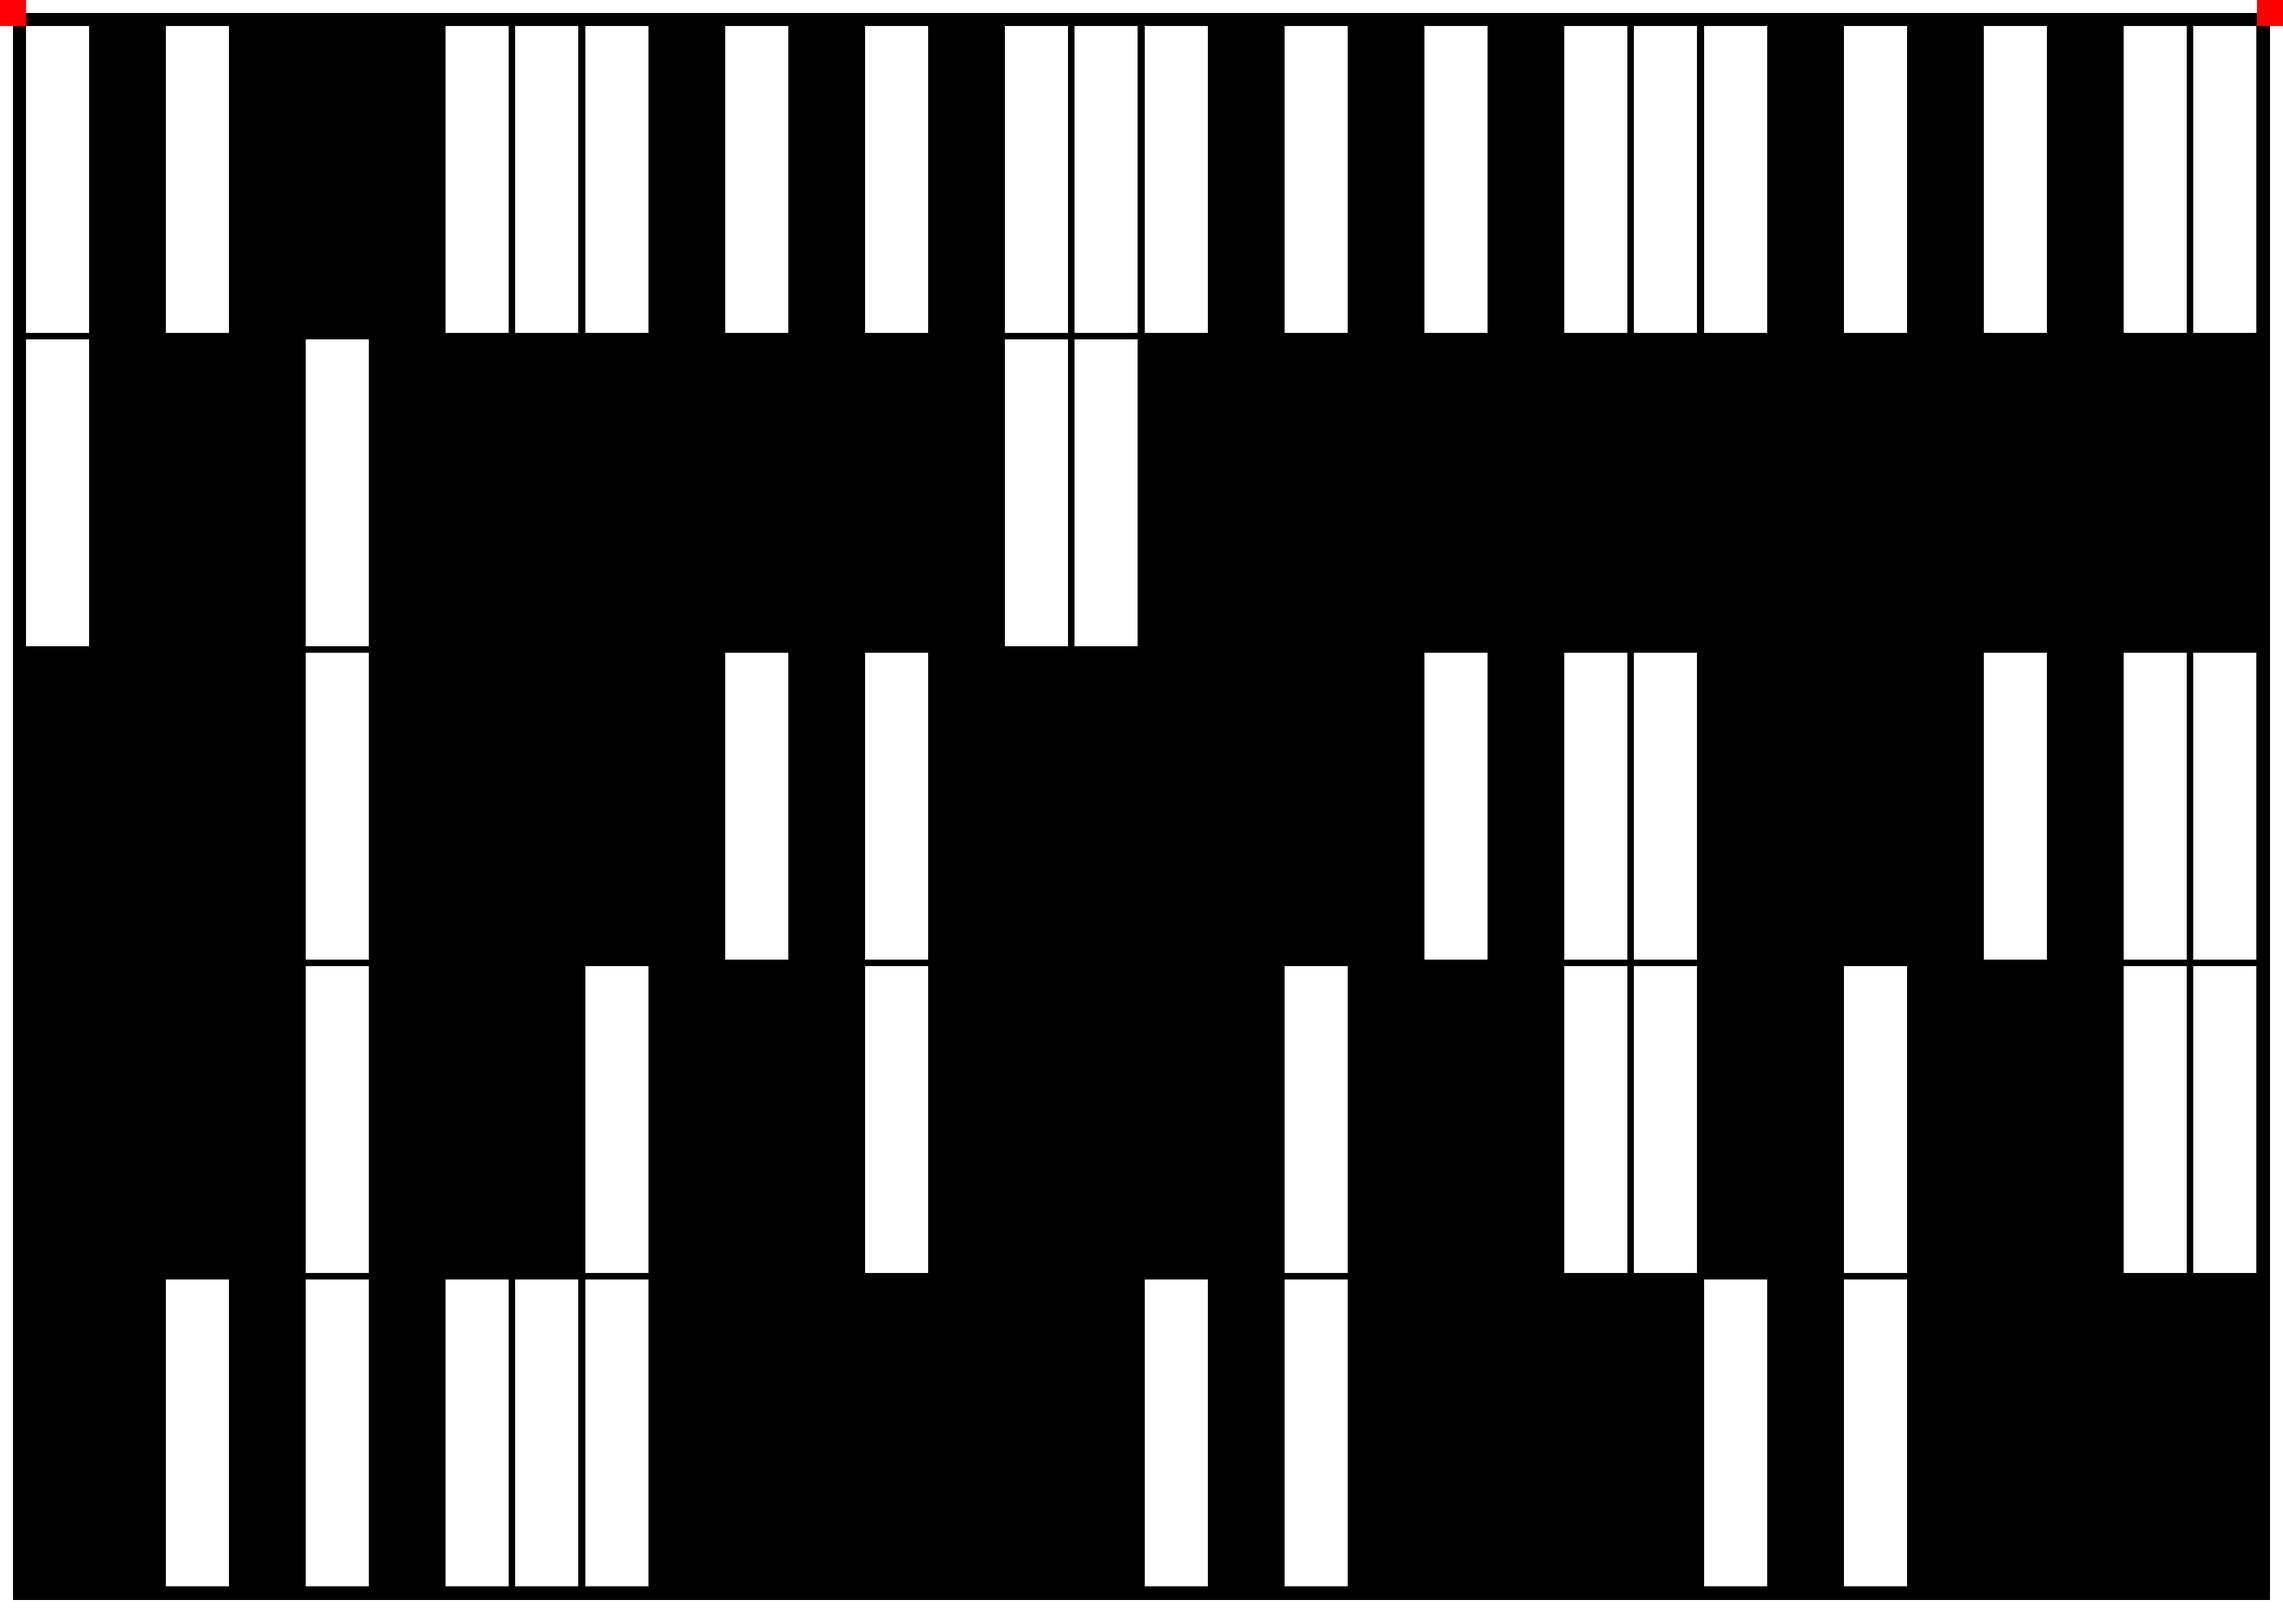
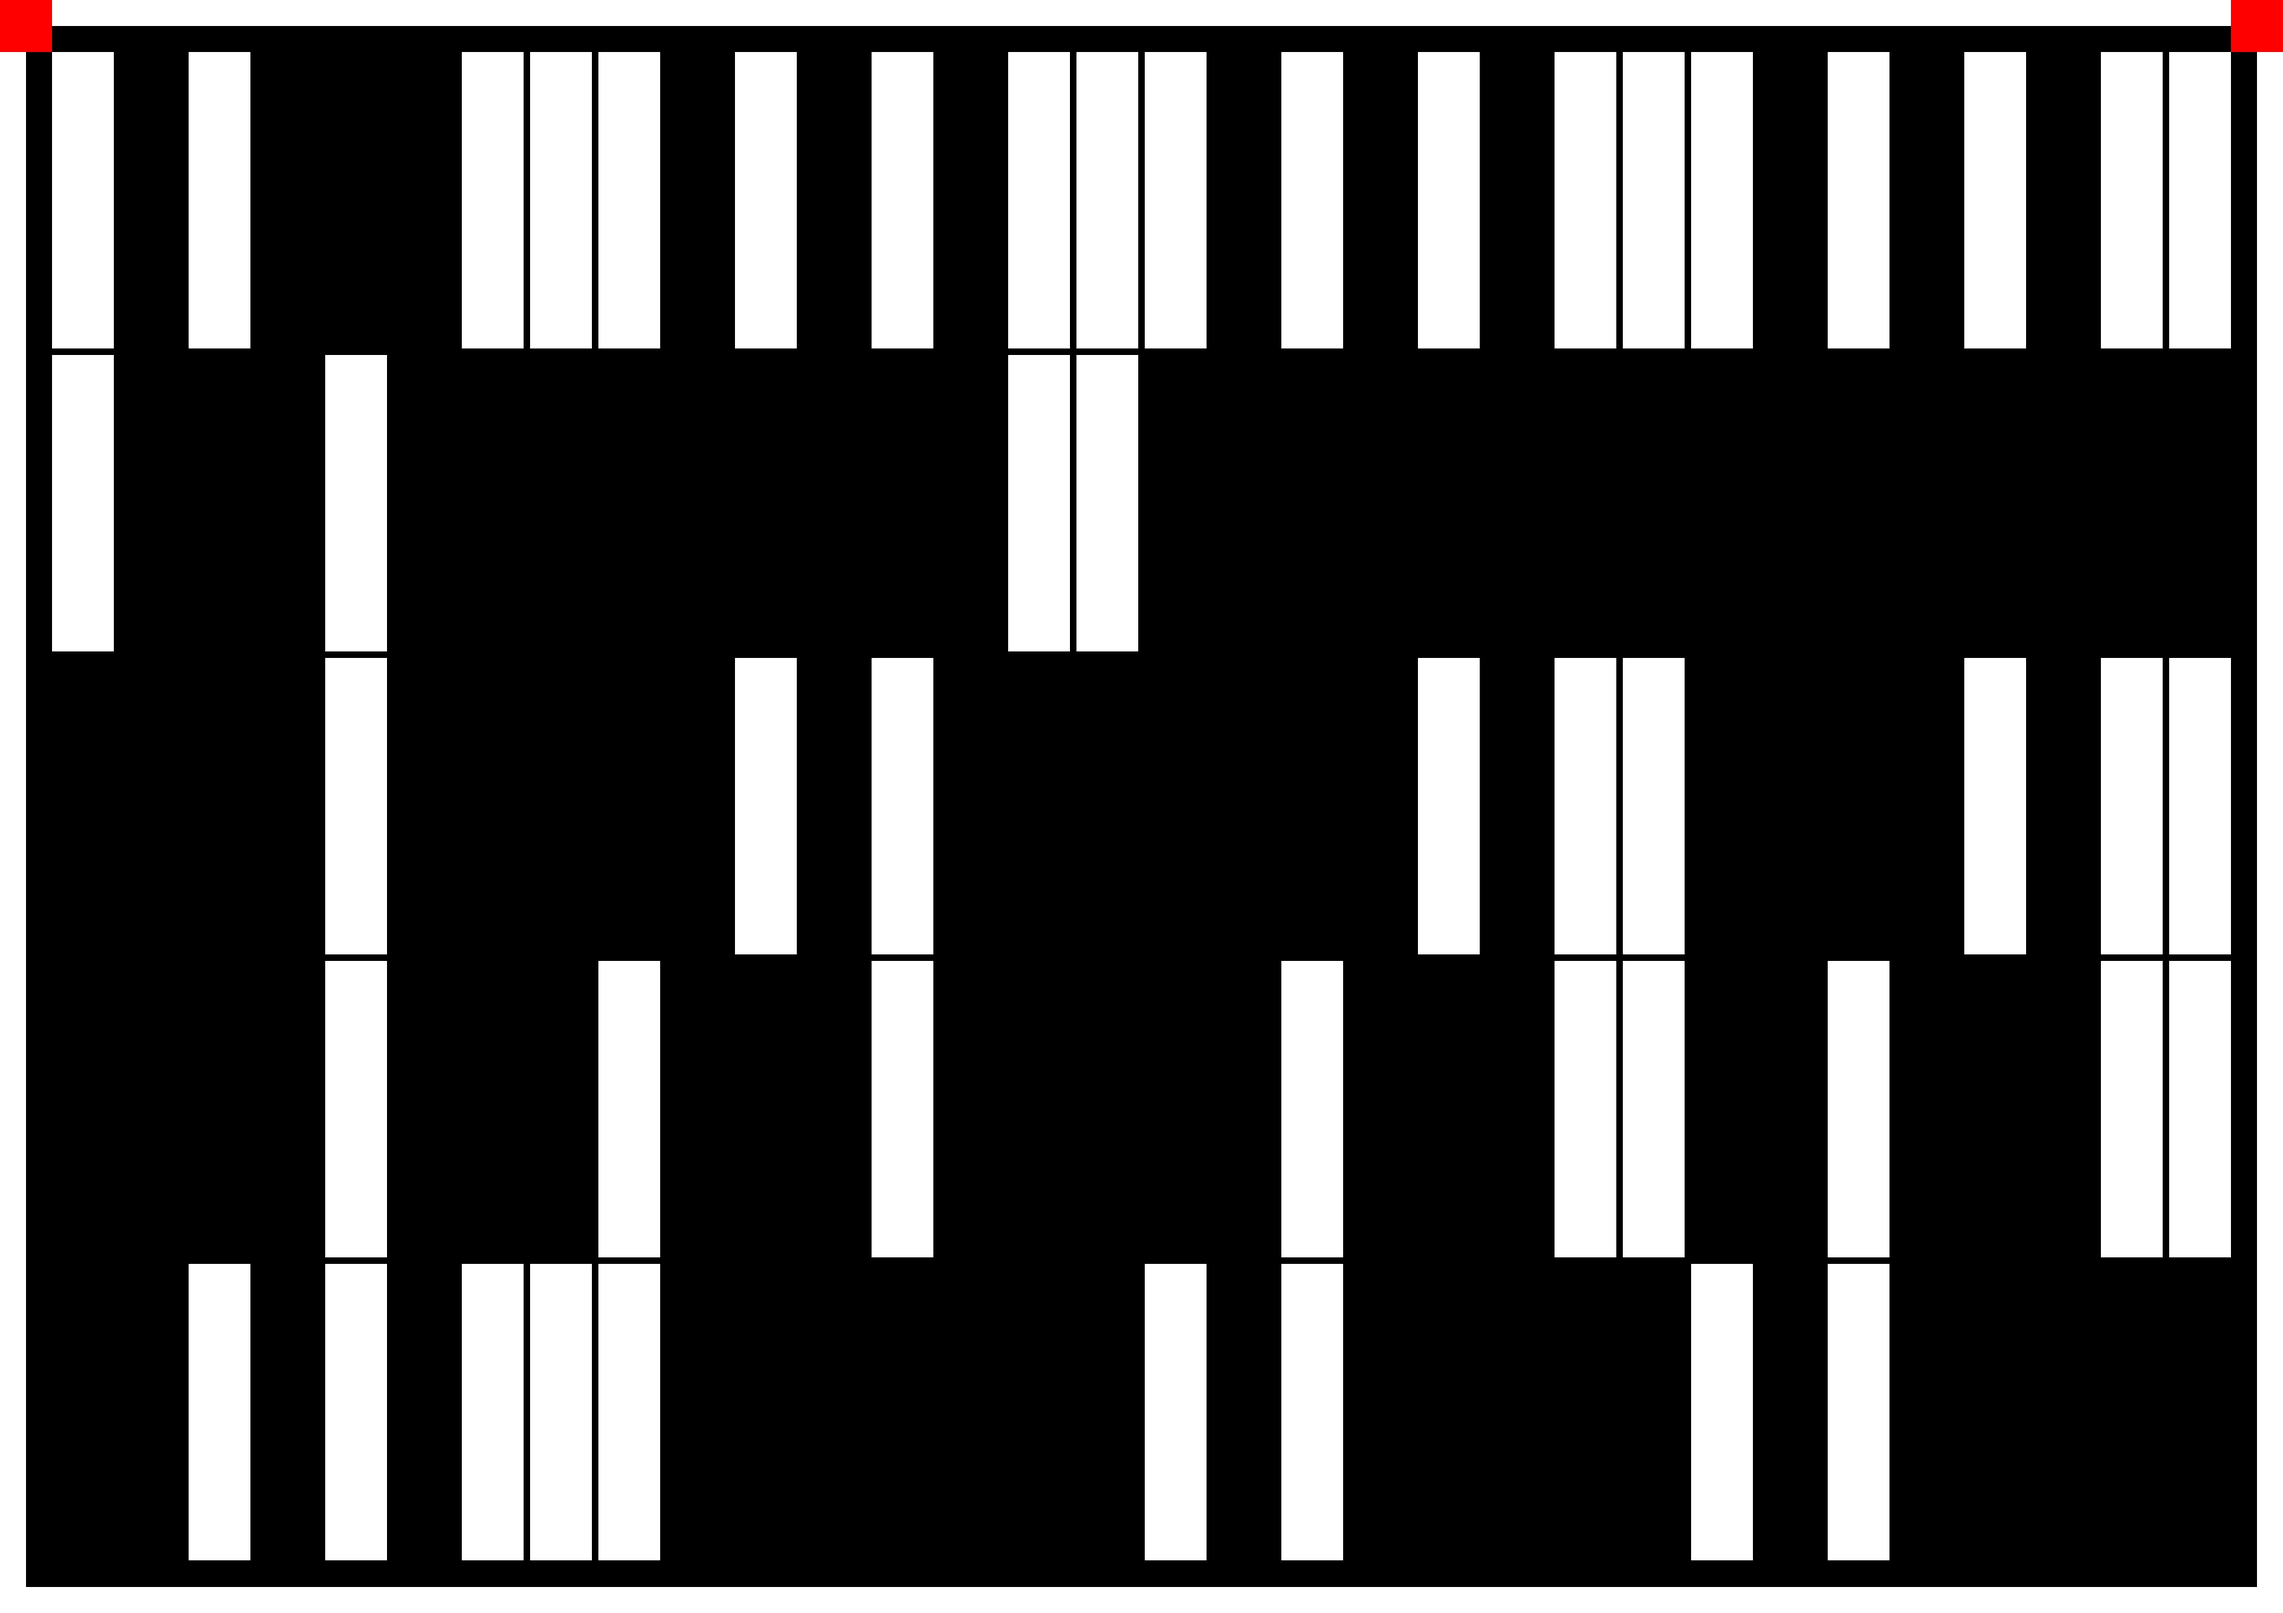
Refining launcher

diff --git a/draw_grid.hpp b/draw_grid.hpp
@@ -4,9 +4,9 @@
 #define BOXHEIGHT 5
 #define BOXWIDTH 32
 #define BOXBORDER 10
-#define BORDER 20
+#define BORDER 40
 #define GRIDNUM 1
-#define DOTSIZE 40
+#define DOTSIZE 80
 
 #include <opencv2/core/core.hpp>
 
